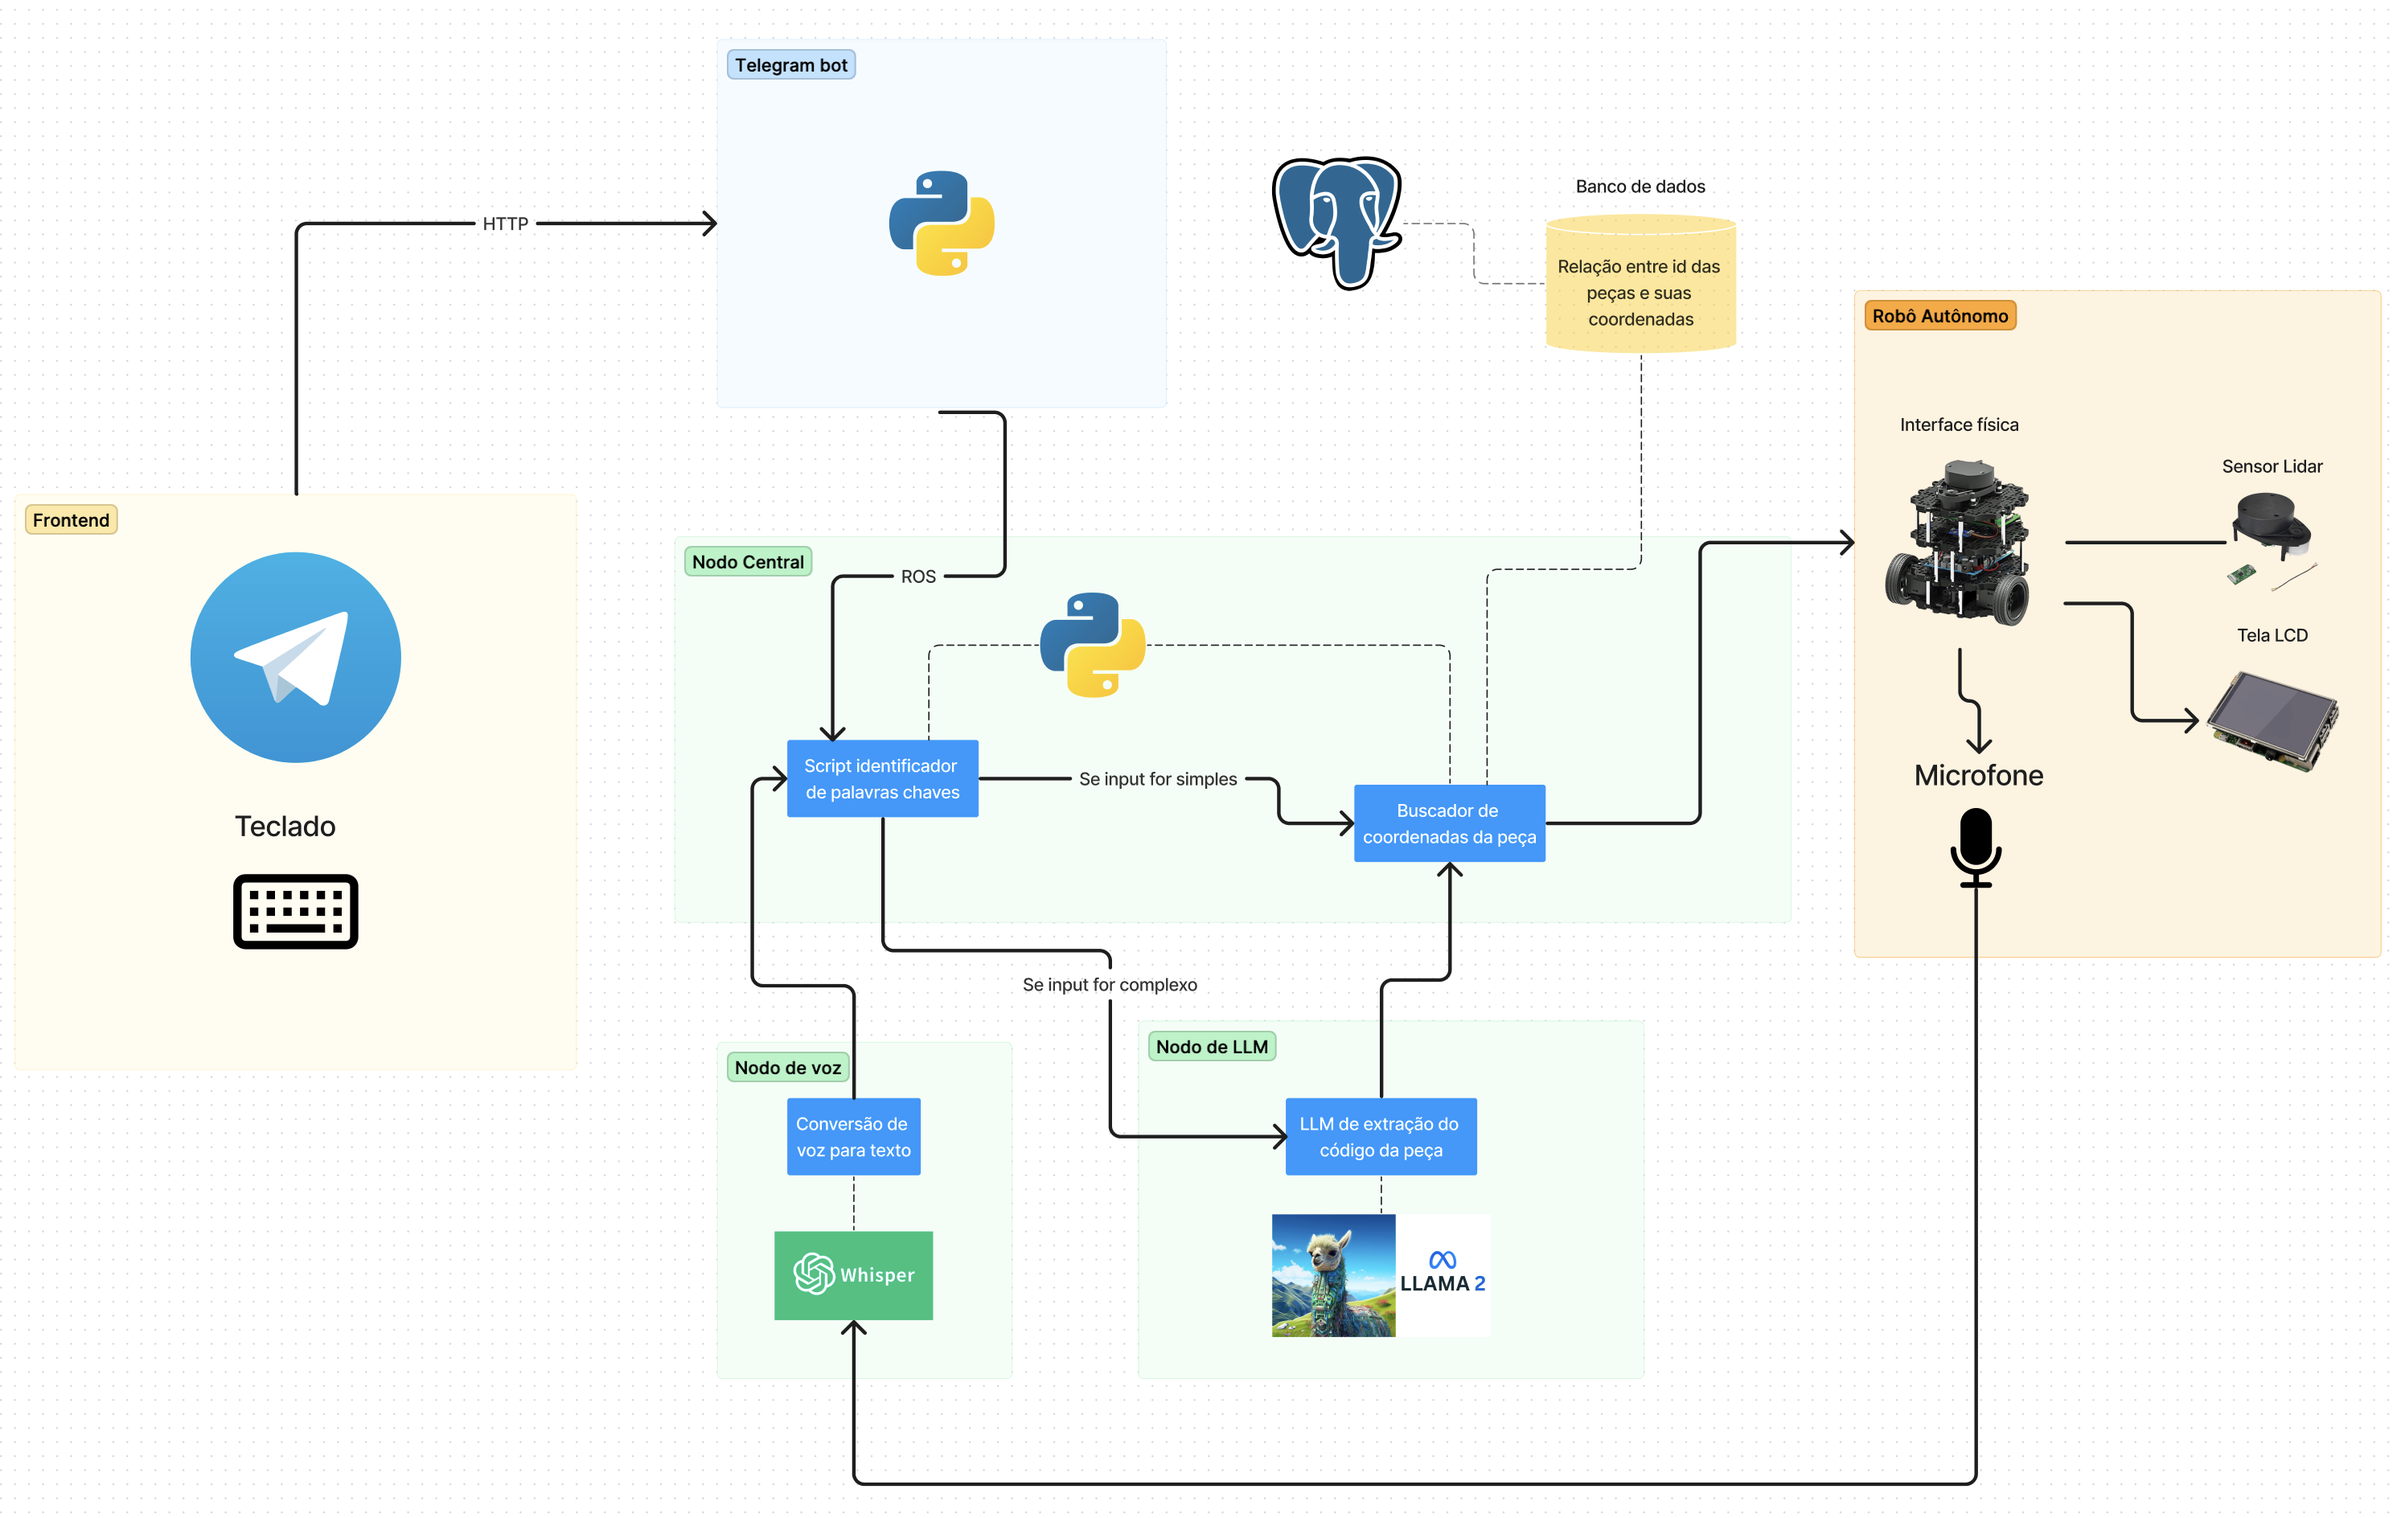
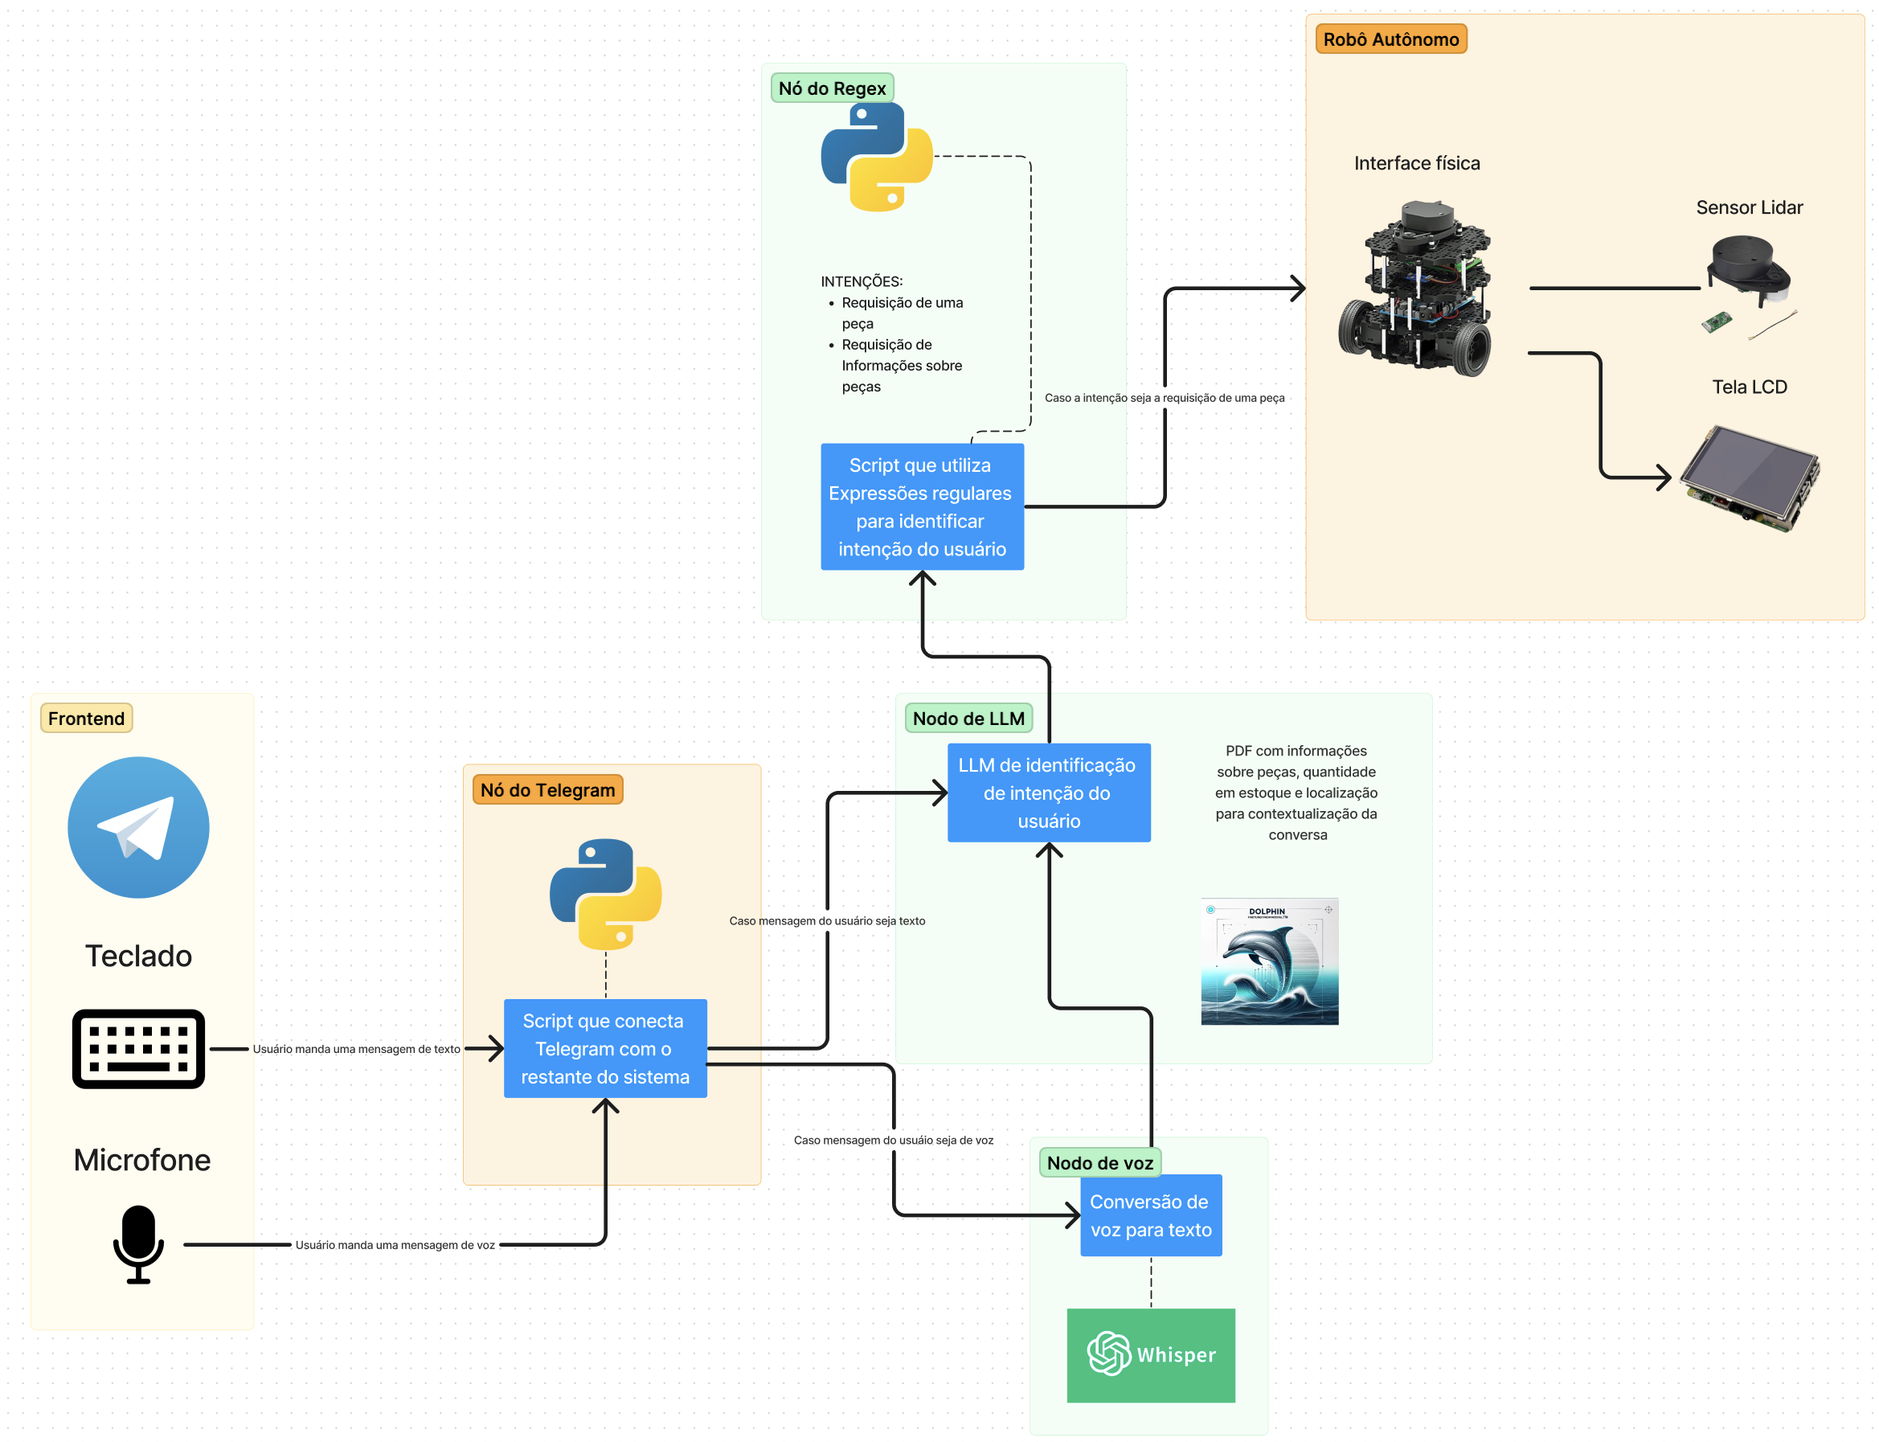
Update system architecture and LLM node implementation

diff --git a/docs/docs/sprint3/LLM/index.md b/docs/docs/sprint3/LLM/index.md
@@ -1,1 +1,68 @@
-# LLM (Large Language Model)
+# Large Language Model
+
+## Visão Geral
+Essa seção fornece detalhes sobre o `LlmNode`, um componente do sistema ROS. Ele utiliza modelos de linguagem grande (LLMs) para processar e responder a consultas de texto, especialmente aquelas recebidas via Telegram, e encaminha as informações para outro nó ROS que utiliza expressões regulares (regex) para determinar ações subsequentes.
+
+## Bibliotecas utilizadas
+- **ROS (Robot Operating System):** Um middleware para robótica que oferece serviços padrões como abstração de hardware, controle de dispositivos de baixo nível, implementação de funcionalidade comumente usada, passagem de mensagens entre processos, e gerenciamento de pacotes.
+- **Python 3.x:** A linguagem de programação usada para desenvolver o nó LLM.
+- **rclpy:** Fornece a API do ROS para Python, permitindo a criação de nós ROS e a comunicação entre eles.
+- **ament_index_python:** Utilizado para encontrar pacotes, recursos e compartilhamentos no ambiente ROS, facilitando o gerenciamento de recursos e dependências.
+- **langchain:** Uma biblioteca que facilita a integração de modelos de linguagem grande com outras aplicações. Esta biblioteca é crucial para incorporar a capacidade de processar e entender linguagem natural de forma avançada.
+
+### Utilidade das Bibliotecas
+- `rclpy` é o núcleo da interação com o ROS, facilitando a comunicação entre diferentes nós e a implementação de callbacks e publishers/subscribers.
+- `ament_index_python` ajuda na localização de arquivos e recursos dentro do ambiente ROS, o que é crucial para acessar arquivos de configuração e dados.
+- `langchain` é usada para integrar o modelo de linguagem grande (LLM), que é essencial para entender e processar as entradas de texto de uma maneira sofisticada e contextualizada.
+
+## O Papel do Modelo de Linguagem Grande (LLM)
+O LLM é usado para interpretar as entradas de texto recebidas, principalmente do Telegram. Diferente de métodos mais simples, o LLM pode entender nuances e a intenção completa das consultas do usuário, oferecendo respostas mais precisas e contextuais.
+
+## Implementação do Nó LLM
+
+### Classe `LlmNode`
+```python
+class LlmNode(Node):
+    def __init__(self, base_url, model_name, data_file_path):
+        ...
+        # Processamento de contexto
+        ...
+
+    def run_ollama(self, text):
+        ...
+        # Lógica para gerar respostas com base no contexto
+        ...
+
+    def listener_callback(self, msg):
+        ...
+        # Callback para mensagens recebidas
+        ...
+
+```
+
+#### Inicialização (`__init__`)
+No método `__init__`, o nó é inicializado, carregando o contexto de um arquivo de texto. Este contexto é processado e transformado em embeddings através de `SentenceTransformerEmbeddings`, que converte o texto em representações numéricas entendíveis pelo LLM.
+
+#### Processamento de Contexto
+Aqui, detalhamos como o nó carrega e processa o contexto. O texto é dividido em segmentos utilizando `CharacterTextSplitter`, e cada segmento é transformado em embeddings. Estes embeddings são armazenados em um `vectorstore` (neste caso, `Chroma`), que facilita a recuperação e o uso dessas informações pelo LLM.
+
+#### Geração de Respostas (`run_ollama`)
+Este método utiliza o LLM para processar as entradas de texto e gerar respostas. O LLM analisa a entrada e, utilizando o contexto armazenado, gera uma resposta que é passada para outros nós ROS.
+
+#### Callback de Mensagens (`listener_callback`)
+Este método lida com as mensagens recebidas (neste caso, do Telegram) e inicia o processamento do LLM, passando a entrada de texto para `run_ollama`.
+
+### Código de Inicialização e Execução (`main`)
+Essa função inicia o nó e o coloca em operação dentro do ambiente ROS.
+
+## Interação com Telegram e Outros Nós ROS
+O `LlmNode` recebe mensagens do Telegram, processa-as com o LLM e, em seguida, as envia para outros nós ROS. Estes nós usam regex para analisar a saída do LLM, identificar a intenção do usuário e determinar ações correspondentes.
+
+## Contexto da LLM e Formato de Dados
+Foi passado um contexto para a LLM entender informações importantes sobre o projeto e conseguir entender melhor a intenção do usuário com base no input (mensagem vinda do Telegram). 
+O contexto foi fornecido por meio de um arquivo de texto (txt) e consiste em informações sobre várias ferramentas e suas coordenadas. Trecho do arquivo:
+```txt
+Engrenagem: [(x:220), (y:180)],
+Bomba de líquido: [(x:150), (y:250)],
+...
+```

diff --git a/docs/docs/sprint1/Arquitetura do sistema/index.md b/docs/docs/sprint1/Arquitetura do sistema/index.md
@@ -6,39 +6,37 @@ sidebar_position: 1
 
 ![Arquitetura do sistema](../../assets/arquitetura_do_sistema.png)
 
-### Visão Geral
-O sistema consiste em uma arquitetura baseada em ROS que integra um Nodo Central com módulos de processamento de voz e texto a um Robô Autônomo. O objetivo é permitir que o robô interprete e execute comandos relacionados à busca de peças em um ambiente, utilizando tanto entradas de teclado quanto comandos de voz.
+## Visão Geral
+Este sistema utiliza a plataforma ROS para automatizar a busca e identificação de itens em almoxarifados. O objetivo é permitir que o robô interprete e execute comandos relacionados à busca de peças em um ambiente, permitindo que os usuários enviem comandos de texto ou voz para localizar itens com a ajuda de um robô autônomo.
 
-O sistema é composto por uma estrutura frontend-backend, integrada a um sistema robótico autônomo. O frontend foi construído usando Next.js, e a comunicação com o backend ocorre via API. No núcleo do sistema, temos um Nodo Central que gerencia a entrada de dados e direciona para os respectivos componentes. Uma parte crucial é o Robô Autônomo, que possui vários periféricos, incluindo um microfone, um sensor Lidar e uma tela LCD.
+### Frontend
+- **Telegram**: Interface de usuário para enviar comandos de texto ou voz.
+- **Teclado**: Permite a entrada de comandos de texto.
+- **Microfone**: Permite a entrada de comandos de voz, que são convertidos em texto.
 
-### Componentes do Sistema
+### Processamento de Comandos
+- **Nó do Regex**: Processa expressões regulares para identificar intenções do usuário, como pesquisa de um item ou requisição de informações sobre peças.
+- **Nó do LLM (Large Language Model)**: Identifica a intenção do usuário e acessa informações relevantes para a tarefa.
 
-1. **Frontend: Telegram**
-   - Input: Teclado
-   - Comunicação: HTTP para Bot do Telegram
+### Conversão de Voz
+- **Nó de Voz (Whisper)**: Converte mensagens de voz em texto para processamento.
 
-2. **Bot do Telegram**
-   - Serve como ponte entre o frontend e o Nodo Central.
+### Robô Autônomo
+- **Interface Física**: Equipado com Sensor LiDAR para navegação e Tela LCD para feedback.
+- **Operação**: Executa ações com base nos comandos processados e informações do sistema.
 
-3. **Nodo Central**
-   - Responsável pela lógica principal e pelo gerenciamento dos nodos auxiliares.
-   - Integração com o banco de dados para recuperar a relação entre IDs de peças e suas coordenadas.
-   - Contém um script identificador de palavras-chave para determinar o tipo de entrada (simples ou complexa).
+### Integração de Dados
+- **PDF de Peças**: Contém informações sobre peças, quantidade em estoque e localização para contextualização da conversa.
 
-4. **Nodo de voz**
-   - Conversão de voz para texto usando o serviço Whisper.
+## Fluxo de Dados
+1. O usuário envia um comando pelo Telegram (texto ou voz).
+2. O nó de LLM processa o comando e envia para o nó de Regex.
+2. O nó de REGEX identifica a intenção do usuário.
+3. O robô autônomo é direcionado para localizar e identificar o item solicitado. 
+4. O feedback é apresentado ao usuário através do Telegram e da Tela LCD do robô.
 
-5. **Nodo de LLM**
-   - LLM para extração do código da peça.
-   - Imagem representativa: Llama
-
-6. **Robô Autônomo**
-   - Interface física: Sensor Lidar, Tela LCD, Microfone.
-   - Busca coordenadas das peças com base nos inputs.
-
-### Fluxo de Dados
-
-1. O usuário insere dados via teclado no frontend Next.js ou através da voz no microfone do Robô Autônomo.
-2. O input é enviado à API.
-3. O Nodo Central avalia a entrada, e, se for simples, procura as coordenadas diretamente no banco de dados. Se for uma entrada complexa, direciona para o Nodo de LLM para processamento adicional.
-4. O Robô Autônomo busca a peça com base nas coordenadas obtidas e exibe informações na Tela LCD.
+## Tecnologias e Ferramentas
+- **ROS (Robot Operating System)**: Framework de robótica que gerencia a comunicação entre os nós.
+- **Telegram API**: Interface para comunicação com o usuário.
+- **Whisper**: Tecnologia de conversão de voz para texto.
+- **Sensor LiDAR**: Para mapeamento e navegação do robô.
